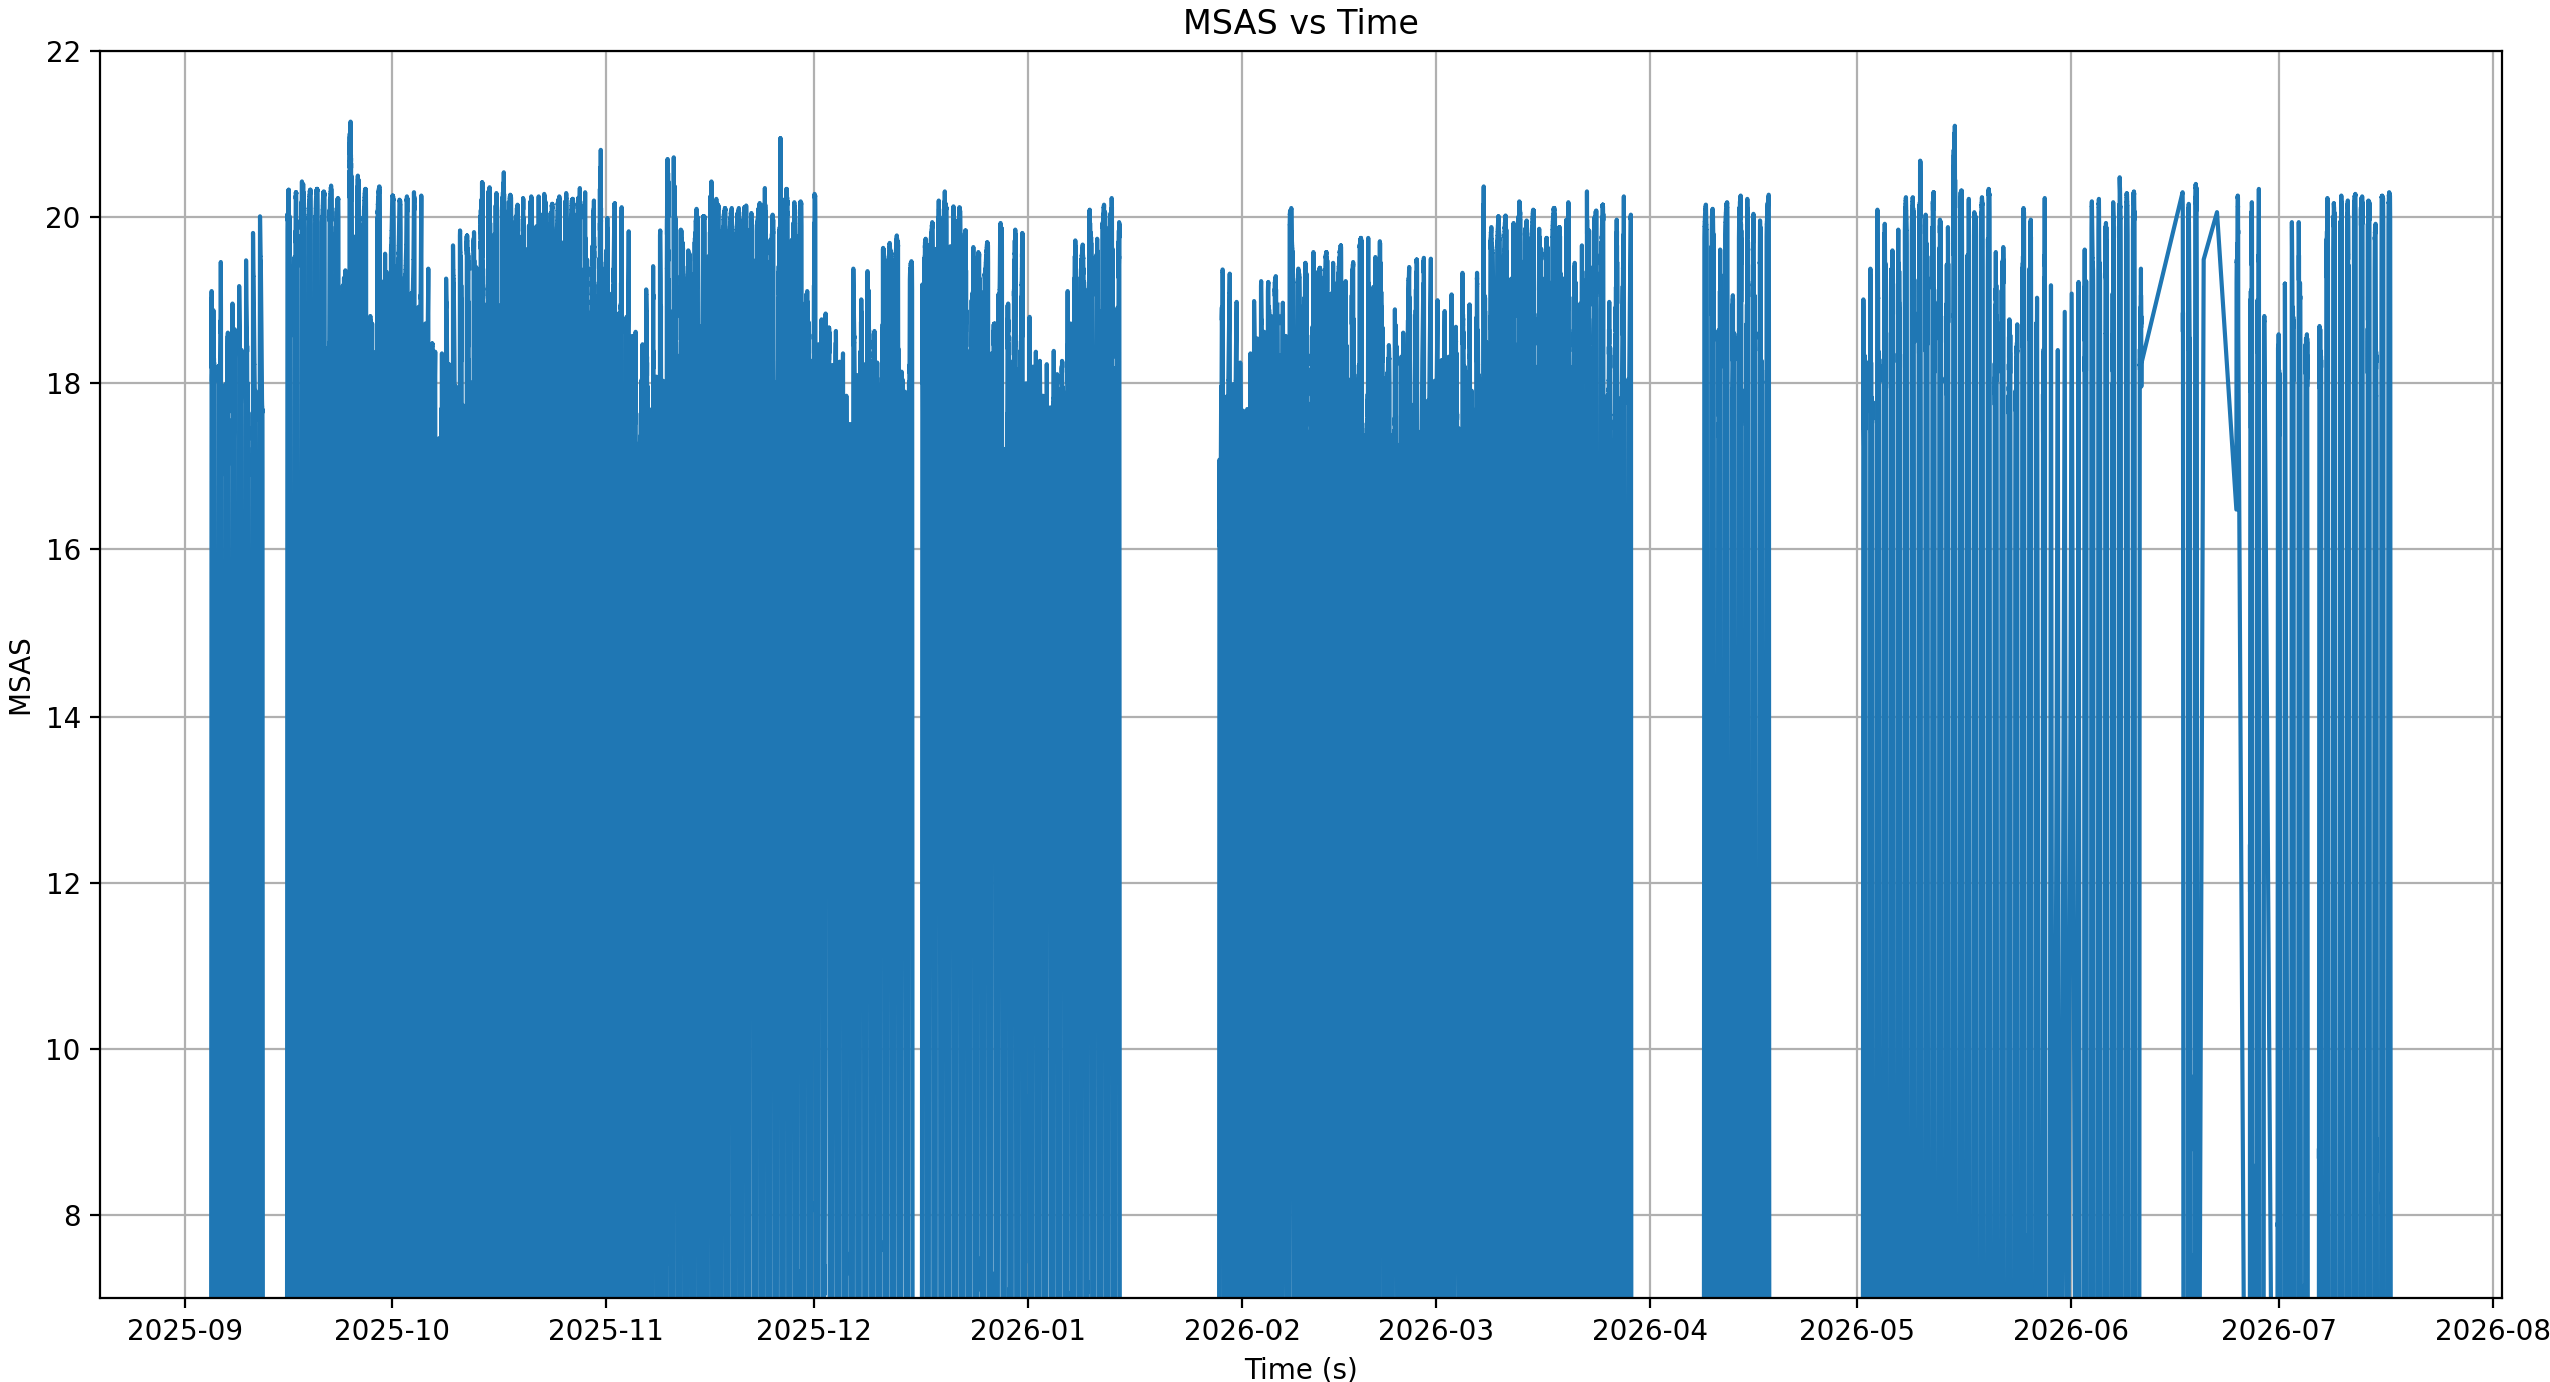
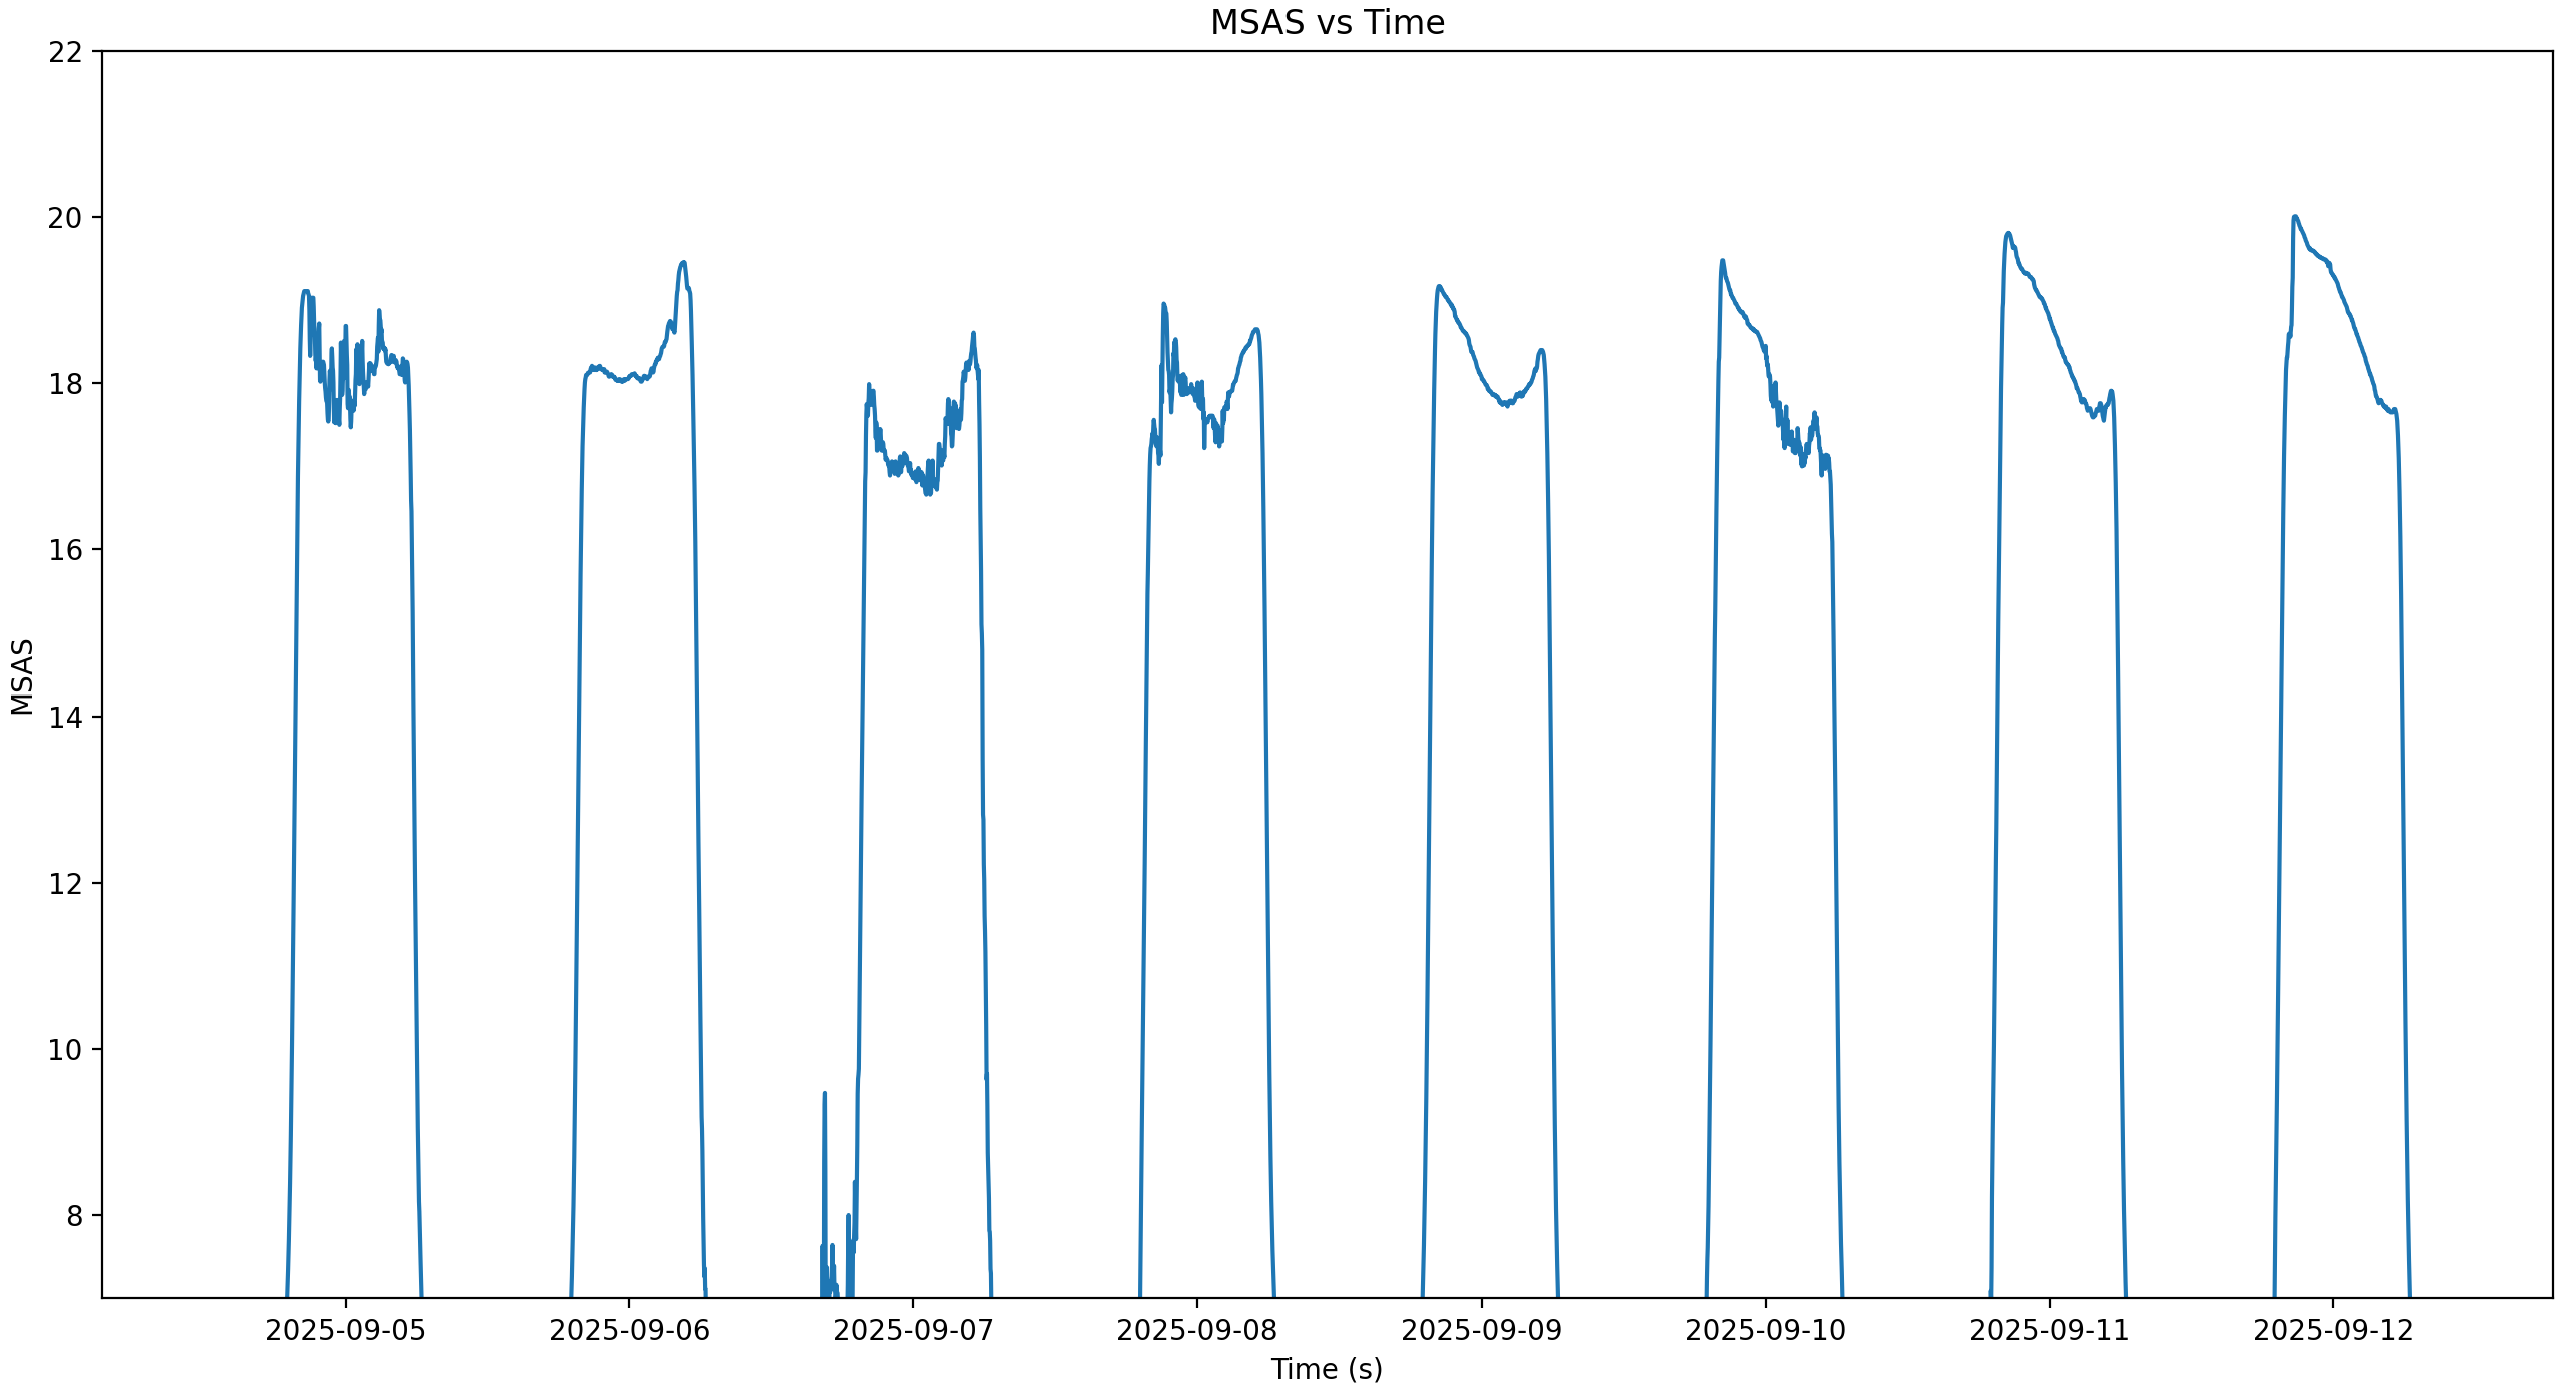
README.md draft

diff --git a/README.md b/README.md
@@ -42,7 +42,7 @@ The most important part of each command is the base, whch selects which type of 
 
   <img src="./img/raw-all.png" alt="Image generated by raw-all">
 
-  Above: Generated with command: `raw-all`
+  Above: Generated with command: `raw-all` on a small dataset
 
 - `raw-individual`: Graphs MSAS vs. time for a single date (you must specify which date: see qualifiers section for more info)
 
@@ -54,7 +54,7 @@ The most important part of each command is the base, whch selects which type of 
 
   <img src="./img/markers-all.png" alt="Image generated by markers-all">
   
-  Above: Generated with command: `markers-all`
+  Above: Generated with command: `markers-all` on a large dataset
 
 - `makers-individual`: Graphs sun and moon event markers (i.e. dusk, dawn, sunrise, sunset, moonrise, and moonset) for a single specified date. Includes text displaying the moon illumination and date. **Note that this is not an especially useful graph on its own and is intended to be overlaid on `raw-individual`.**
 
@@ -63,9 +63,28 @@ The most important part of each command is the base, whch selects which type of 
   Above: Generated with command: `markers-individual%date=2026/07/10`
 
 - `weather`: Graphs cloud cover vs. time for a single specified date.
+
+  <img src="./img/weather.png" alt="Image generated by weather">
+  
+  Above: Generated with command: `weather%date=2026/07/01`
+
 - `sinusoidal`: Graphs maximum MSAS on each night in the dataset (dubbed 'sinusoidal' because it should form a rough sinusoid!)
+
+  <img src="./img/sinusoidal.png" alt="Image generated by sinusoidal">
+  
+  Above: Generated with command: `sinusoidal`
+
 - `sinfit`: Graphs a sinusoid fit to the maximum MSAS on each night.
+
+  <img src="./img/sinfit.png" alt="Image generated by sinfit">
+  
+  Above: Generated with command: `sinfit`
+
 - `prediction`: Graphs predicted data for a specified date.
+
+  <img src="./img/prediction.png" alt="Image generated by prediction">
+  
+  Above: Generated with command: `prediction%date=2026/08/08`
 
 ## Qualifiers
 Qualifiers are intended to be used to make specifications about an individual command base. If multiple graphs are overlaid on top of each other, qualifiers should be included for each one (unless no qualifiers are needed!). Qualifiers are marked by the `%` key.
